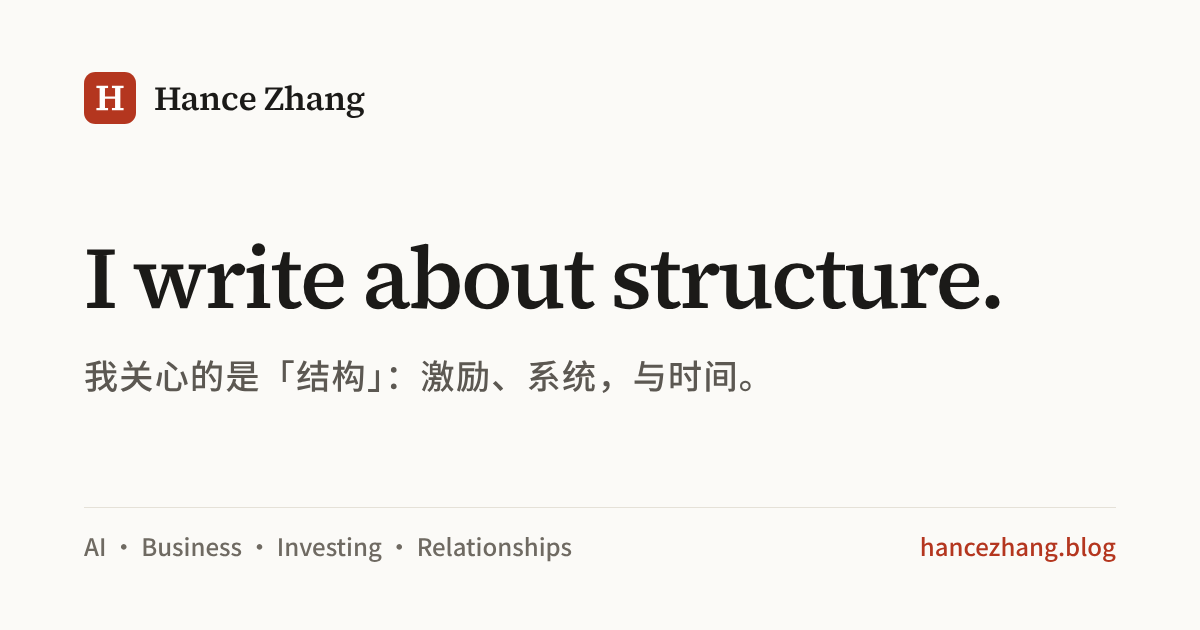
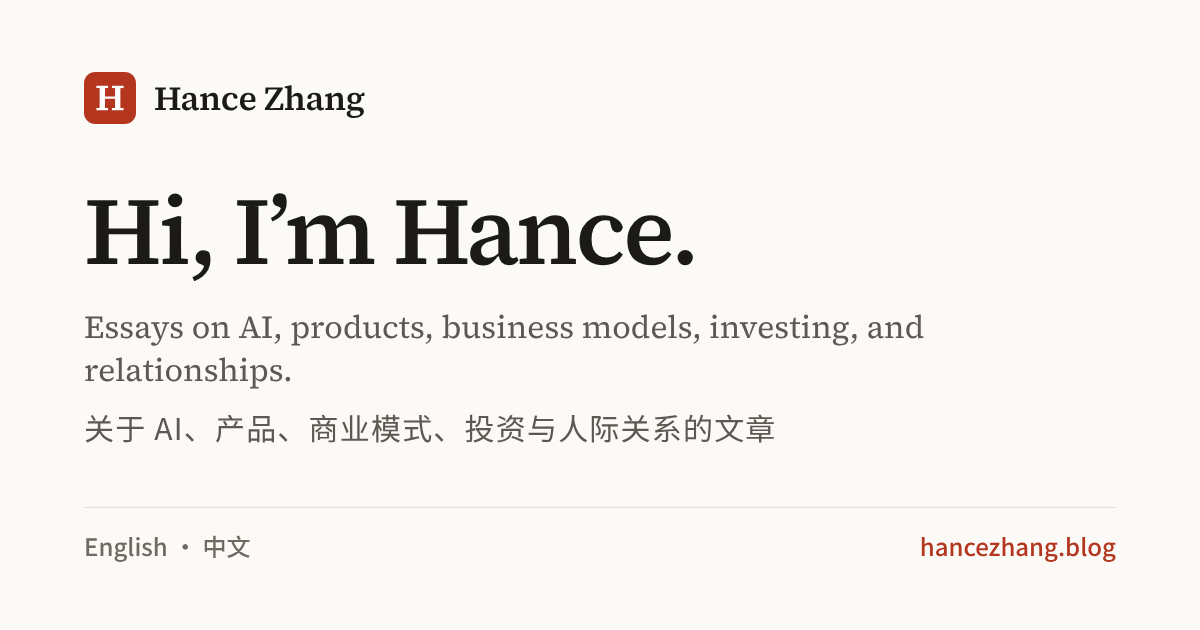
Simplify the home intro and show dates on every essay list
- Hero is now just "Hi, I'm Hance." with one line on what I write
  about; the structure framing is gone from the hero, the meta
  description and the share image.
- "Start here" and "Recent" show each essay's date and reading time.
- The end-of-article note no longer promises email delivery, which
  only exists once a newsletter provider is configured.

Claude-Session: https://claude.ai/code/session_01Uwm6cwh996adwGvsJubBPS

diff --git a/src/i18n.ts b/src/i18n.ts
@@ -9,8 +9,7 @@ export const LOCALES: Record<Lang, { html: string; date: string; og: string; nam
 export const otherLang = (lang: Lang): Lang => (lang === 'en' ? 'zh' : 'en');
 
 const en = {
-  siteDescription:
-    'Essays by Hance Zhang on AI, products, business models, investing, and relationships, and on the structures underneath them.',
+  siteDescription: 'Essays by Hance Zhang on AI, products, business models, investing, and relationships.',
   skipToContent: 'Skip to content',
   navMain: 'Main',
   navElsewhere: 'Elsewhere',
@@ -21,11 +20,8 @@ const en = {
   navSubscribe: 'Subscribe',
   toggleTheme: 'Toggle dark mode',
 
-  heroTitle: 'Hi, I’m Hance. I write about structure.',
-  heroLede:
-    'How incentives shape behavior, how time amplifies what is already there, and how systems quietly train people, organizations, and markets over the long run.',
-  heroBody:
-    'My essays cover AI, product building, business models, investing, and human relationships. I care less about slogans and stated values than about the deeper mechanisms that produce durable outcomes.',
+  heroTitle: 'Hi, I’m Hance.',
+  heroLede: 'I write about AI, product building, business models, investing, and human relationships.',
   heroCta: 'Read the essays',
   latest: 'Latest essay',
   startHere: 'Start here',
@@ -59,7 +55,9 @@ const en = {
   copied: 'Copied',
   followX: 'Follow on X',
   emailMe: 'Email',
-  endnote: 'Thanks for reading. New essays arrive by email or RSS.',
+  // Says nothing about email: the email form only exists once SITE.newsletter is configured.
+  endnote: 'Thanks for reading.',
+  endnoteLink: 'Subscribe to new essays',
 
   notFoundTitle: 'Page not found',
   notFoundBody: 'This page doesn’t exist, or it moved when the site was rebuilt.',
@@ -69,7 +67,7 @@ const en = {
 export type UIStrings = typeof en;
 
 const zh: UIStrings = {
-  siteDescription: 'Hance Zhang 的文章：AI、产品、商业模式、投资与人际关系，以及藏在它们底下的结构。',
+  siteDescription: 'Hance Zhang 的文章：AI、产品、商业模式、投资与人际关系。',
   skipToContent: '跳到正文',
   navMain: '主导航',
   navElsewhere: '其他链接',
@@ -80,10 +78,8 @@ const zh: UIStrings = {
   navSubscribe: '订阅',
   toggleTheme: '切换深色模式',
 
-  heroTitle: '你好，我是 Hance。我关心的是「结构」。',
-  heroLede: '激励如何塑造行为，时间如何放大既有模式，系统如何在长期中悄悄训练个人、组织与市场。',
-  heroBody:
-    '我的文章涉及 AI、产品、商业模式、投资，以及人与人之间关系的长期演化。比起口号和表态，我更关心那些真正决定结果的深层机制。',
+  heroTitle: '你好，我是 Hance。',
+  heroLede: '我写 AI、产品、商业模式、投资，以及人与人之间的关系。',
   heroCta: '开始阅读',
   latest: '最新文章',
   startHere: '从这里开始',
@@ -116,7 +112,8 @@ const zh: UIStrings = {
   copied: '已复制',
   followX: '在 X 上关注',
   emailMe: '邮件',
-  endnote: '感谢阅读。新文章会通过邮件或 RSS 送达。',
+  endnote: '感谢阅读。',
+  endnoteLink: '订阅新文章',
 
   notFoundTitle: '页面不存在',
   notFoundBody: '这个页面不存在，或者在网站改版时换了地址。',
